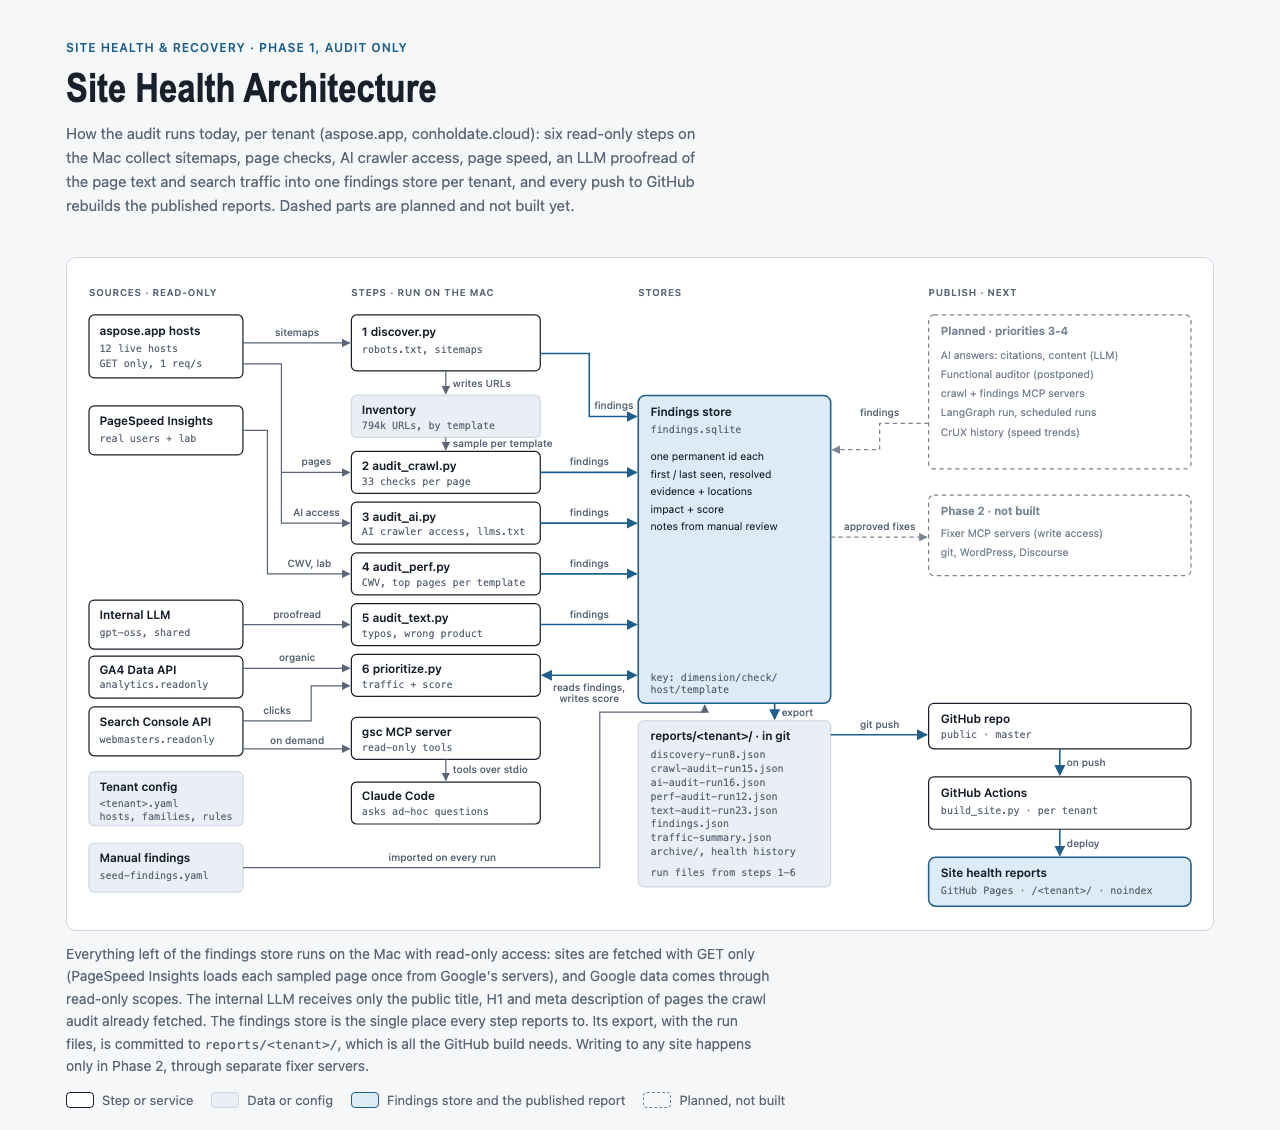
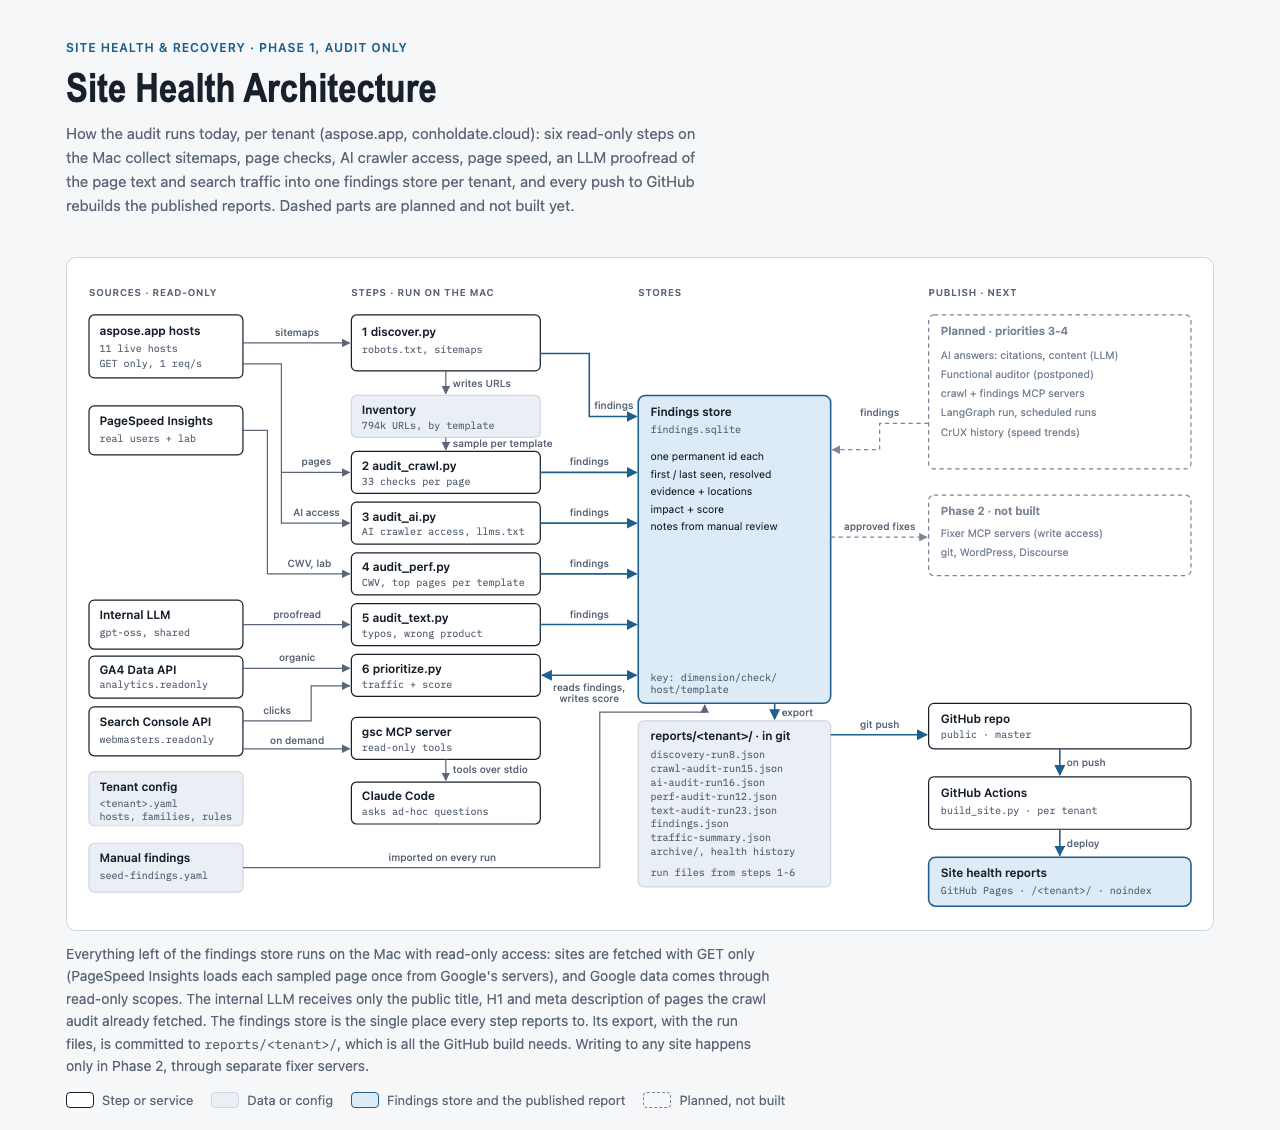
Docs: aspose.app has 11 hosts; architecture diagram version 8
Assisted by Claude Code

diff --git a/docs/architecture/site-health-architecture.html b/docs/architecture/site-health-architecture.html
@@ -108,7 +108,7 @@ td.step { font: 700 18px var(--display); color: var(--accent); width: 40px }
         <!-- sources -->
         <rect class="d-box" x="16" y="56" width="176" height="72" rx="6"/>
         <text class="d-t" x="28" y="79">aspose.app hosts</text>
-        <text class="d-s" x="28" y="98">12 live hosts</text>
+        <text class="d-s" x="28" y="98">11 live hosts</text>
         <text class="d-s" x="28" y="115">GET only, 1 req/s</text>
 
         <rect class="d-box" x="16" y="160" width="176" height="56" rx="6"/>
@@ -306,7 +306,7 @@ td.step { font: 700 18px var(--display); color: var(--accent); width: 40px }
       <table>
         <thead><tr><th></th><th>Command</th><th>Reads</th><th>Writes</th><th>Time</th></tr></thead>
         <tbody>
-          <tr><td class="step">1</td><td><code>python scripts/discover.py</code></td><td>robots.txt and every sitemap on the tenant's hosts (aspose.app: 12)</td><td>URL inventory (<code>data/&lt;tenant&gt;/inventory.sqlite</code>), sitemap findings, <code>reports/&lt;tenant&gt;/discovery-runN.json</code></td><td>15 min</td></tr>
+          <tr><td class="step">1</td><td><code>python scripts/discover.py</code></td><td>robots.txt and every sitemap on the tenant's hosts (aspose.app: 11)</td><td>URL inventory (<code>data/&lt;tenant&gt;/inventory.sqlite</code>), sitemap findings, <code>reports/&lt;tenant&gt;/discovery-runN.json</code></td><td>15 min</td></tr>
           <tr><td class="step">2</td><td><code>python scripts/audit_crawl.py</code></td><td>the inventory (2 English + 2 translated pages per template), each host's homepage, family hubs; top Search Console pages for families with no sitemap</td><td>page checks (<code>data/&lt;tenant&gt;/audit.sqlite</code>), page findings with evidence locations, <code>reports/&lt;tenant&gt;/crawl-audit-runN.json</code></td><td>25 min</td></tr>
           <tr><td class="step">3</td><td><code>python scripts/audit_ai.py</code></td><td>each host's robots.txt (rules for AI search and training crawlers), its homepage as each AI crawler, /llms.txt per host and per product family</td><td>AI access findings (AI search crawlers blocked by robots.txt or the firewall, missing or broken llms.txt), <code>reports/&lt;tenant&gt;/ai-audit-runN.json</code></td><td>5 min</td></tr>
           <tr><td class="step">4</td><td><code>python scripts/audit_perf.py</code></td><td>PageSpeed Insights for the 2 most-visited pages of each crawl-audit template (mobile): Core Web Vitals from real Chrome users (28 days, 75th percentile) and a Lighthouse lab run</td><td>speed findings (real-user LCP, INP, CLS, TTFB; pages that do not load or paint nothing; whole-host Core Web Vitals), <code>reports/&lt;tenant&gt;/perf-audit-runN.json</code></td><td>40 min</td></tr>

diff --git a/CLAUDE.md b/CLAUDE.md
@@ -19,7 +19,7 @@ Domain-agnostic agents that audit a web property, report what is broken, not opt
 **Pages URL rename done (SK renamed the repo, 2026-10-20):** GitHub repo `shoaibkhan-aspose/health-and-recovery`, Pages https://shoaibkhan-aspose.github.io/health-and-recovery/<tenant>/; `github` remote and links updated. Old `/aspose-app-health-and-recovery/...` Pages links now 404 (GitHub forwards git and repo URLs, not Pages). Old links keep working through the redirect repo `aspose-app-health-and-recovery` (see Report layout changes below).
 
 **Report layout changes (SK, 2026-10-20, later):** published reports no longer show a Fix guide section at all (every finding already links "How to fix →" to the shared page; the menu and the All findings intro link there too); host health is a table, one host per row (health with points lost on hover, open findings + "See N →", search traffic, URLs, biggest issue), not cards. Family cards unchanged. **products.aspose.app has a row too** (SK noticed it was missing): `build_report.family_rollup` = families' health weighted by search clicks (72) minus host-wide findings that belong to no family (-16: root /sitemap.xml unreachable, empty video-app sitemap, no robots.txt, no llms.txt, ...) = **D 56**; the row names the lowest family (/drawing/ F 19) because an average hides it. Before this, those 7 host-wide products findings counted in no grade at all.
-- **api.products.aspose.app (SK, 2026-10-20: "cannot find this domain"):** it resolves (CNAME aspose-app.lb.k8s.dynabic.com) and GA4 counts ~11.6k sessions/28 days, but `/` answers 404 S3 NoSuchBucket: an API/backend host, not a website. It is in the tenant YAML only because GA4 showed it (2026-10-08, "not yet confirmed by SK"). Recommended to SK: stop auditing it (drop from hosts) and delete its 3 findings from the store (crawl-0010, crawl-0057, crawl-0071), since its D 52 grade is misleading. Waiting for SK.
+- **api.products.aspose.app (SK, 2026-10-20: "cannot find this domain"):** it resolves (CNAME aspose-app.lb.k8s.dynabic.com) and GA4 counts ~11.6k sessions/28 days, but `/` answers 404 S3 NoSuchBucket: an API/backend host, not a website. It is in the tenant YAML only because GA4 showed it (2026-10-08, "not yet confirmed by SK"). **Dropped (SK agreed, 2026-10-20):** removed from the tenant hosts and `llms_txt_skip_hosts`; its 3 findings (crawl-0010, crawl-0057, crawl-0071) and their observations/events deleted from the store (backup in that session's scratchpad), 367 findings left. Run files still list it; `build_report.drop_hosts` leaves out hosts no longer in the tenant YAML (host table, crawl/AI/speed/text summaries). aspose.app now has 11 hosts.
 - **Redirect repo (2026-10-20):** SK created the public repo `shoaibkhan-aspose/aspose-app-health-and-recovery`; local clone `/Users/Apple/Work/Aspose/GitHub/aspose-app-health-and-recovery-redirect` holds `index.html` = `404.html` (JS keeps path, query, #anchor; old root and /archive/ go to /aspose.app/), `.nojekyll`, README. Pushed; SK enabled Pages (Deploy from a branch, main, / (root)) the same day. Verified in headless Chrome: old root and `/#findings` -> aspose.app report, `/archive/2026-10-12/` and `/archive/` -> aspose.app archive, `/conholdate.cloud/` and `/fix-guide/` -> same pages on the new site.
 
 **Session 2026-10-20 in short:** SK postponed the functional auditor; chose the text check (first LLM use, internal endpoint) before priority 4; it was built, tuned (3 runs), and published; typo severity agreed (plain typo `improvable`, placeholder/garbled/wrong product `incorrect`); a soft-404 gap was fixed in the crawl auditor (code only); a Total false positive was removed (Aspose.Total = all products). Details: Status, "Text check".
@@ -36,7 +36,7 @@ Domain-agnostic agents that audit a web property, report what is broken, not opt
 
 **Live:**
 - Reports (public, noindex), rebuilt by GitHub Actions on every push to `master`: landing page https://shoaibkhan-aspose.github.io/health-and-recovery/, aspose.app https://shoaibkhan-aspose.github.io/health-and-recovery/aspose.app/ (archive https://shoaibkhan-aspose.github.io/health-and-recovery/aspose.app/archive/), conholdate.cloud https://shoaibkhan-aspose.github.io/health-and-recovery/conholdate.cloud/ (archive https://shoaibkhan-aspose.github.io/health-and-recovery/conholdate.cloud/archive/). Old links (https://shoaibkhan-aspose.github.io/health-and-recovery/#… and /archive/<date>/) redirect to /aspose.app/.
-- Architecture page (private, version 7 = per-tenant layout, 2026-10-20; PNG re-rendered 1280x1130): https://claude.ai/artifact/3zrEcbrV1WxN9nfjvS7Kxm, source `docs/architecture/site-health-architecture.html`
+- Architecture page (private, version 8 = 11 hosts after dropping api.products, 2026-10-20; PNG 1280x1130): https://claude.ai/artifact/3zrEcbrV1WxN9nfjvS7Kxm, source `docs/architecture/site-health-architecture.html`
 - Archive: 2026-10-12 (before the restructure), 2026-10-15 (restructured report, before the speed audit), 2026-10-15-2 (after the speed audit), 2026-10-16 (status pills, before the AI audit; downloaded from Pages), 2026-10-16-2 (after the AI audit and crawl audit run 15; this was the live version before the text check, so no new download was needed), 2026-10-20 (after the text check), 2026-10-20-2 (text check run 23, before the per-tenant layout; downloaded from Pages). Files in `reports/aspose.app/archive/`; Pages serve them at `/aspose.app/archive/<file without .html>/`.
 - Older shared discovery report (private, not updated since run 7): https://claude.ai/artifact/MUUTzbXEymKq4tw5mmmPA5
 
@@ -522,6 +522,6 @@ Context gathered before discovery existed. The issues in it are tracked in `tena
 - GA4: 241k sessions with an empty hostName (205k organic) and spam/foreign hosts. Ask who owns the GA4 setup whether a hostname filter exists.
 - Page indexing (indexed vs discovered) per family: needs SK's export from GSC → Indexing → Pages, or URL Inspection sampling.
 - SK checking: who owns routing/CDN for products.aspose.app, and where the app pages are built. Not blocking Phase 1: audit runs on the live site; repos are needed for root cause and Phase 2, requested only for the highest-impact families.
-- Host list: Discovery covers the 12 known hosts (7 from SK + 5 seen in GA4); sitemaps reference no other aspose.app hosts. Not yet done: DNS / certificate-transparency enumeration to find hosts nothing links to.
+- Host list: Discovery covers 11 hosts (7 from SK + 4 seen in GA4; api.products dropped 2026-10-20); sitemaps reference no other aspose.app hosts. Not yet done: DNS / certificate-transparency enumeration to find hosts nothing links to.
 - forum.aspose.app sitemap lists private topics (403 for everyone, 20/20 sampled). Ask the forum owner whether private categories should be excluded from the Discourse sitemap.
 - ~~metrics/status indexing~~ SK (2026-10-09): metrics.aspose.app and status.aspose.app are normal indexable hosts like blog; count their findings in full.
